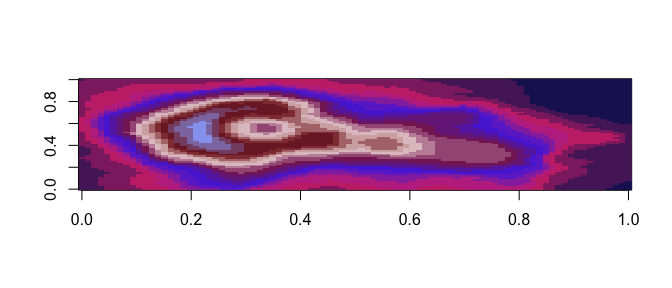
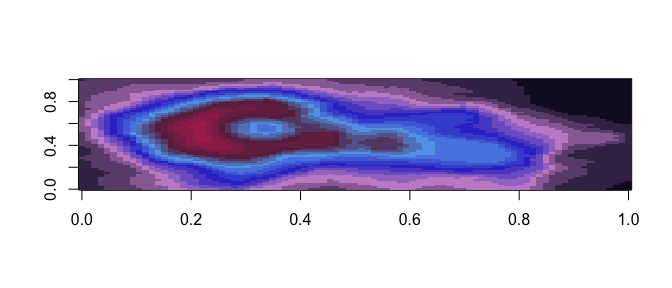
working on schemes

Changed region(s): [[0.0938, 0.25, 0.9375, 0.6875], [0.9062, 0.625, 0.9375, 0.6875]]

diff --git a/README.md b/README.md
@@ -59,14 +59,13 @@ ggplot(mtcars, aes(factor(cyl), fill=factor(vs))) +  geom_bar() +
 ![](figure/ggplot1-1.png)
 
 ``` r
-pal <- horroR_palette("TheNeonDemon", 21, type = "continuous")
+pal <- horroR_palette("Suspiria", 21, type = "continuous")
 image(volcano, col = pal)
 ```
 
 ![](figure/volcano-1.png)
 
 ``` r
-library("horroR")
 library("gridExtra")
 library("scales")
 data("diamonds")
@@ -76,7 +75,7 @@ p1 <- ggplot(
   aes(x = table, y = price, colour = cut)
 ) +
   geom_point(alpha = 0.7) +
-  geom_smooth(method = "loess", alpha = 0.05, size = 1, span = 1) +
+  geom_smooth(method = "loess", alpha = 0.09, size = 1, span = 1) +
   theme_bw()
 #> Warning: Using `size` aesthetic for lines was deprecated in ggplot2 3.4.0.
 #> ℹ Please use `linewidth` instead.
@@ -88,7 +87,7 @@ p2 <- ggplot(
   geom_histogram(colour = "black", binwidth = 1, position = "dodge") +
   theme_bw()
 
-p1_npg <- p1 + scale_fill_manual(values = horroR_palette("Midsommar"))
+p1_npg <- p1 + scale_color_manual(values = horroR_palette("Midsommar"))
 p2_npg <- p2 + scale_fill_manual(values = horroR_palette("Midsommar"))
 
 grid.arrange(p1_npg, p2_npg, ncol = 2)
